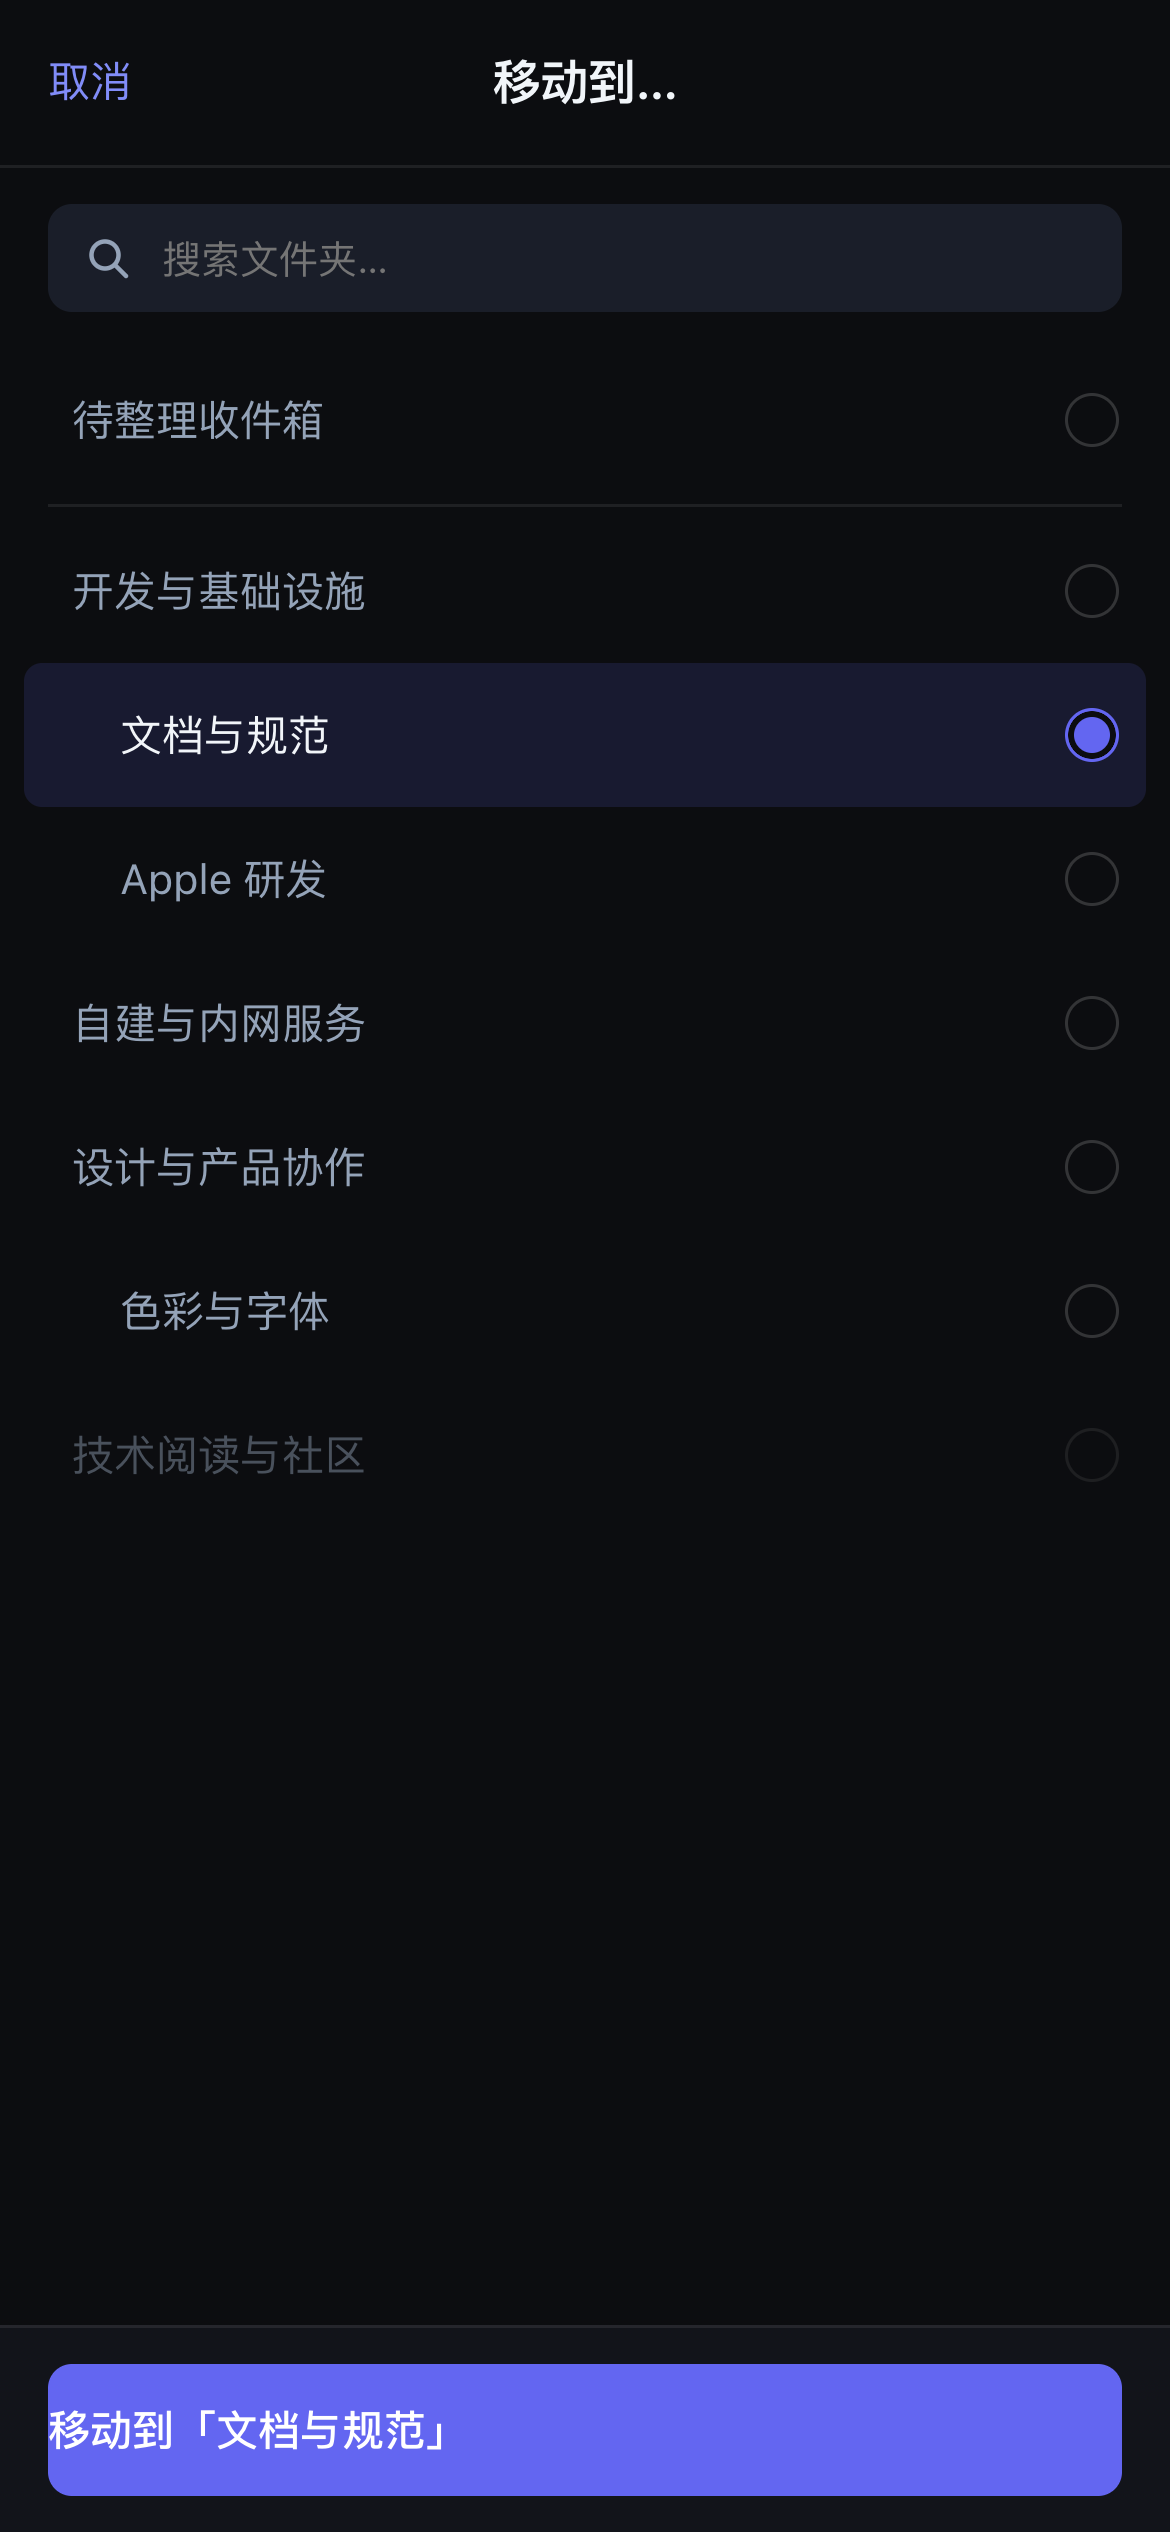
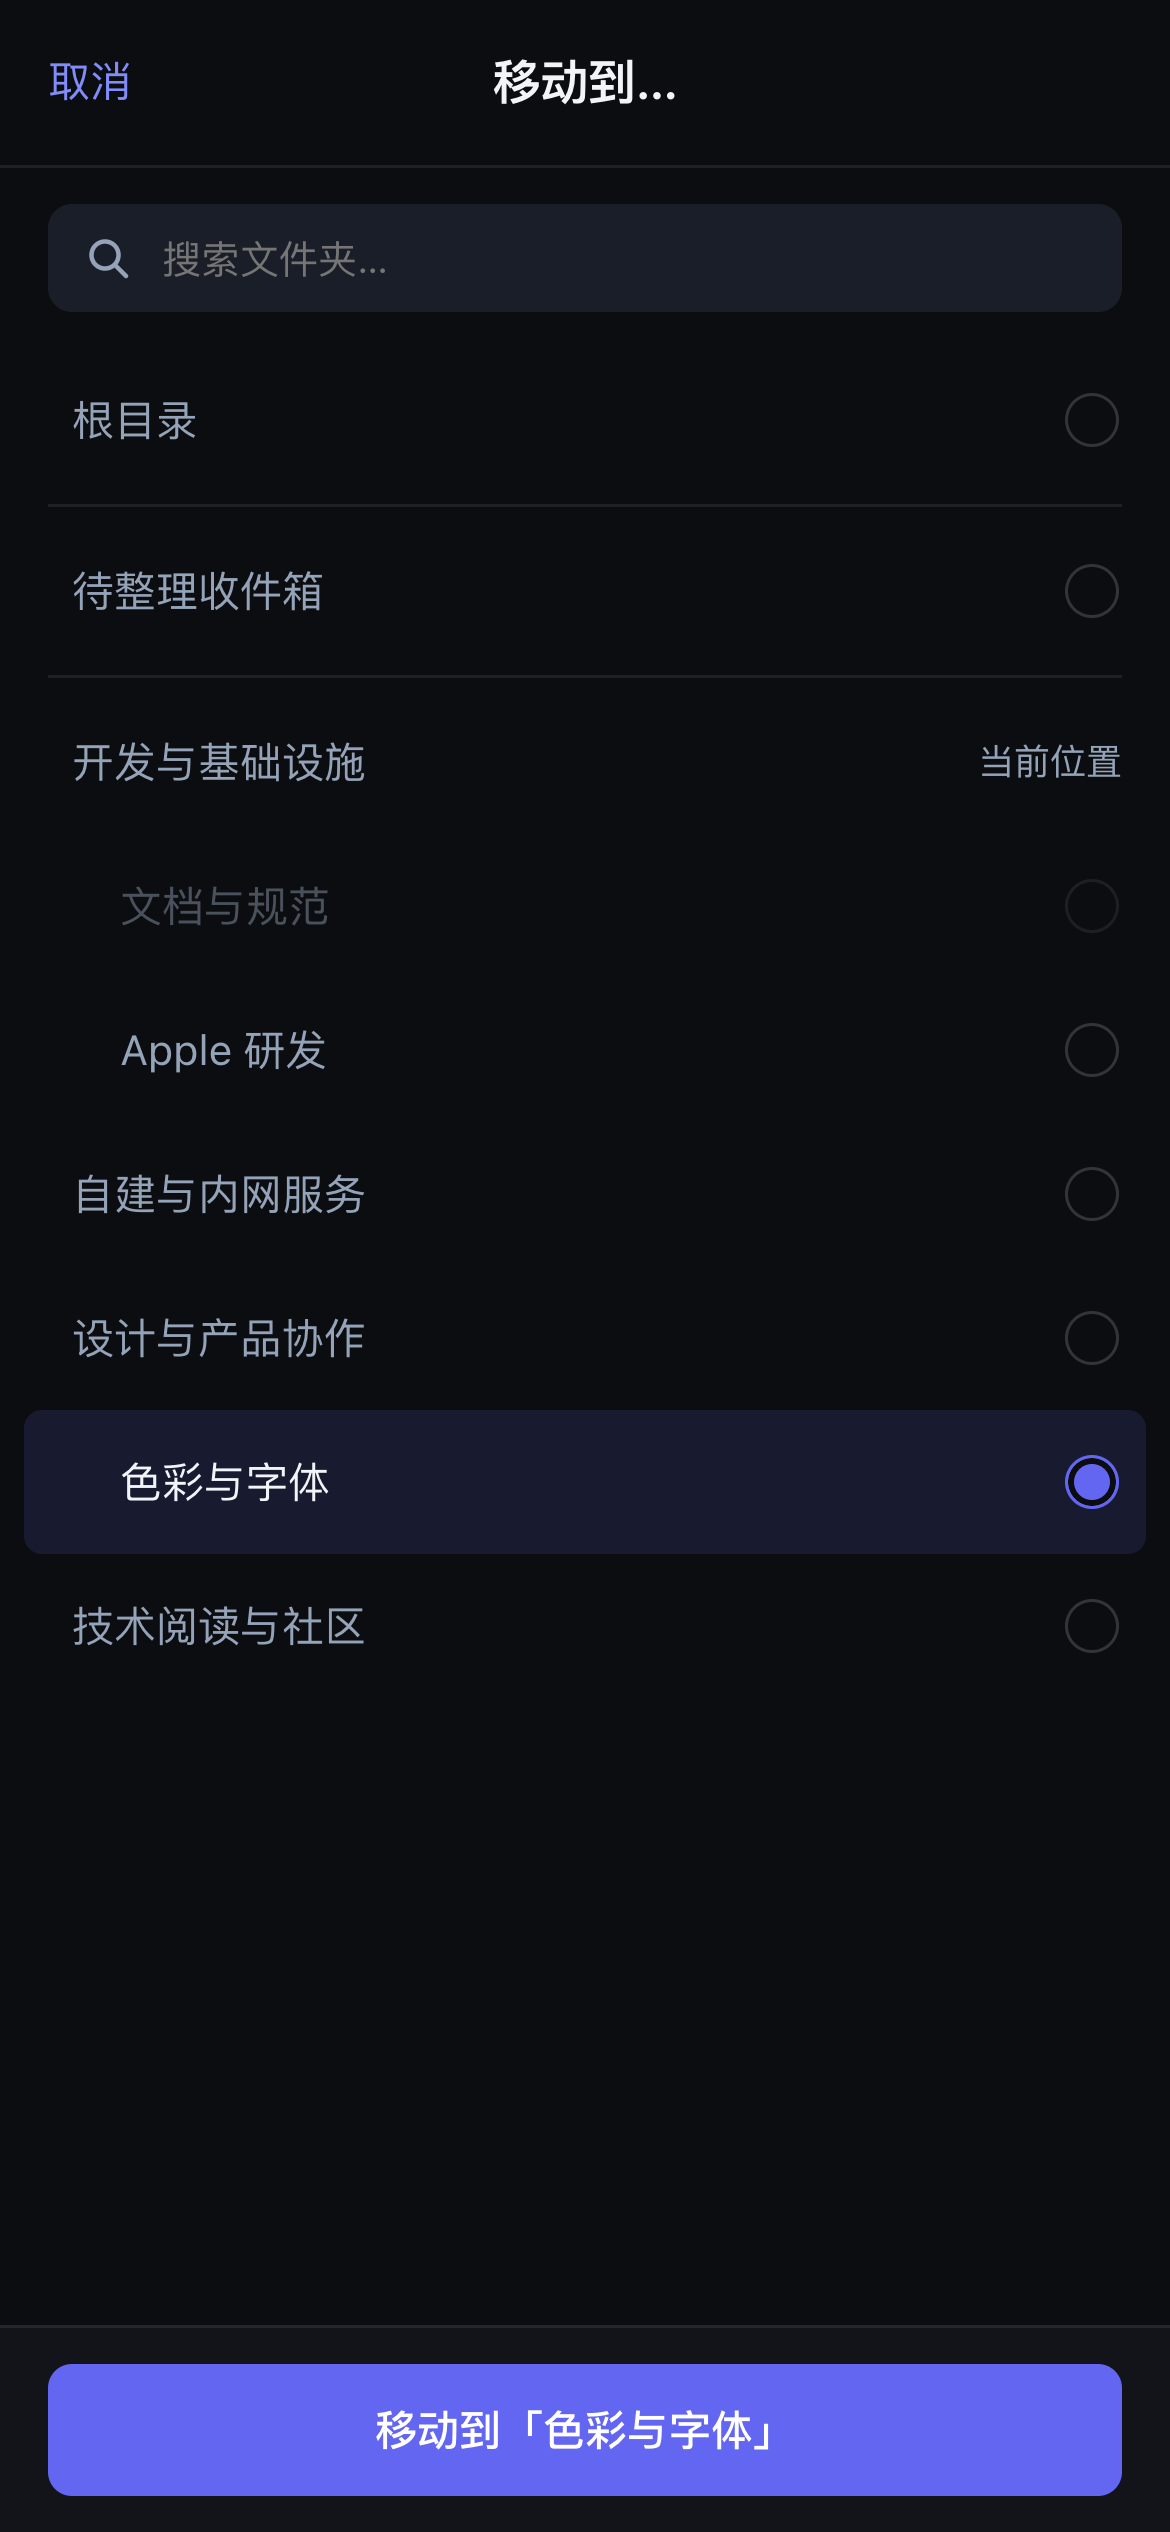
fix(web): 选择器补「根目录」入口，确认按钮文案居中
- 文件夹模式下嵌套目录只能往里搬、搬不出来（触屏没有拖拽兜底）：列表首行加「根目录」，提交走 dropFolder(id, null, 'inside') 追加到根级末尾；源已在根级时显示「当前位置」并禁用
- dropFolder 的 targetId 放宽为 string | null，快照节点数校验保留
- .nx-picker-confirm 显式 text-align: center（.nx-app 全局按钮重置带 text-align: left，通栏按钮文案会贴左）
- 重抓 4 张实机截图

实测 390×844：文档与规范 → 根目录，toast「已把「文档与规范」移到根目录」，groups.parent_id 变空、sort_order 5120；
文件夹模式行序 根目录 / 待整理收件箱 / 开发与基础设施(当前位置) / 文档与规范(禁选) …；按钮文案居中。

diff --git a/apps/web/src/pages/NavPage.tsx b/apps/web/src/pages/NavPage.tsx
@@ -1134,13 +1134,14 @@ export function NavPage({ authenticated, onLogin, onLoggedOut }: Props) {
 
   /** 把文件夹拖到目标的前 / 后 / 内部：本地重排整棵树后整份快照提交。 */
   const dropFolder = useCallback(
-    async (movedId: string, targetId: string, zone: 'before' | 'after' | 'inside') => {
+    async (movedId: string, targetId: string | null, zone: 'before' | 'after' | 'inside') => {
       if (movedId === targetId) return;
       const moved = groupById.get(movedId);
-      const target = groupById.get(targetId);
-      if (!moved || !target) return;
+      const target = targetId ? groupById.get(targetId) : null;
+      if (!moved) return;
+      if (targetId && !target) return;
       const forbidden = [movedId, ...descendantGroupIds(movedId)];
-      const parentId = zone === 'inside' ? targetId : target.parentId ?? null;
+      const parentId = targetId === null ? null : zone === 'inside' ? targetId : target?.parentId ?? null;
       if (parentId && forbidden.includes(parentId)) {
         pushToast('不能把文件夹移动到它自己的子文件夹里');
         return;
@@ -1155,7 +1156,7 @@ export function NavPage({ authenticated, onLogin, onLoggedOut }: Props) {
         buckets.set(parent, list);
       }
       const siblings = buckets.get(parentId) ?? [];
-      if (zone === 'inside') {
+      if (zone === 'inside' || targetId === null) {
         siblings.push(movedId);
       } else {
         const index = siblings.indexOf(targetId);
@@ -1180,9 +1181,11 @@ export function NavPage({ authenticated, onLogin, onLoggedOut }: Props) {
         await api.reorderGroups(snapshot);
         if (parentId) setNodeOpen(parentId, true);
         pushToast(
-          zone === 'inside'
-            ? `已把「${moved.name}」移入「${target.name}」`
-            : `「${moved.name}」顺序已更新`,
+          !target
+            ? `已把「${moved.name}」移到根目录`
+            : zone === 'inside'
+              ? `已把「${moved.name}」移入「${target.name}」`
+              : `「${moved.name}」顺序已更新`,
         );
         await refreshAll();
       } catch (error) {
@@ -1210,12 +1213,19 @@ export function NavPage({ authenticated, onLogin, onLoggedOut }: Props) {
   }, [childrenByParent, pathOf, pickerQuery]);
 
   const pickTargetName =
-    pickerTarget === '__inbox__' ? '待整理收件箱' : pickerTarget ? groupById.get(pickerTarget)?.name ?? '' : '';
+    pickerTarget === '__inbox__'
+      ? '待整理收件箱'
+      : pickerTarget === '__root__'
+        ? '根目录'
+        : pickerTarget
+          ? groupById.get(pickerTarget)?.name ?? ''
+          : '';
 
   const confirmPick = useCallback(async () => {
     if (!picker || !pickerTarget) return;
     const target = pickerTarget;
-    const name = target === '__inbox__' ? '待整理收件箱' : groupById.get(target)?.name ?? '';
+    const name =
+      target === '__inbox__' ? '待整理收件箱' : target === '__root__' ? '根目录' : groupById.get(target)?.name ?? '';
     const job = picker;
     setPicker(null);
     setPickerTarget(null);
@@ -1226,7 +1236,7 @@ export function NavPage({ authenticated, onLogin, onLoggedOut }: Props) {
         pushToast('收件箱不能作为文件夹的上级');
         return;
       }
-      await dropFolder(job.groupId, target, 'inside');
+      await dropFolder(job.groupId, target === '__root__' ? null : target, 'inside');
       return;
     }
     await moveItem(job.itemId, target, name);
@@ -3430,6 +3440,26 @@ export function NavPage({ authenticated, onLogin, onLoggedOut }: Props) {
               />
             </div>
             <div className="nx-picker-list">
+              {picker.mode === 'folder' && (
+                <button
+                  type="button"
+                  className="nx-picker-row"
+                  data-selected={pickerTarget === '__root__' || undefined}
+                  data-current={picker.from === null || undefined}
+                  disabled={picker.from === null || undefined}
+                  onClick={() => setPickerTarget('__root__')}
+                >
+                  <span className="nx-picker-name">根目录</span>
+                  <span className="nx-picker-tail">
+                    {picker.from === null ? (
+                      <span className="nx-picker-current">当前位置</span>
+                    ) : (
+                      <span className="nx-picker-ring" data-on={pickerTarget === '__root__' || undefined} />
+                    )}
+                  </span>
+                </button>
+              )}
+              {picker.mode === 'folder' && <div className="nx-picker-sep" />}
               <button
                 type="button"
                 className="nx-picker-row"

diff --git a/apps/web/src/nav-workspace.css b/apps/web/src/nav-workspace.css
@@ -3451,6 +3451,7 @@ button.nx-tree-arrow:hover {
 
 .nx-picker-confirm {
   width: 100%;
+  text-align: center;
   height: 44px;
   border: 0;
   border-radius: var(--nx-radius);

diff --git a/docs/design/nav-r8/BRIEF.md b/docs/design/nav-r8/BRIEF.md
@@ -142,6 +142,7 @@
 
 - **删掉了 `.nx-ctx-sub` 二级悬停子菜单**：它靠 `:hover` 才 `display:flex`，`ctxMoveOpen` 是从没被 set 过的死状态，触屏永远打不开；位置写死 `right: calc(100% + 4px)`，390 宽下实际 x ≈ −69 直接飞出屏幕。现在「移动到文件夹…」一律打开选择器，桌面居中、手机全屏。
 - 选择器一次解决「选目标」：树全展开 + 按完整路径搜索、当前所在位置显示「当前位置」、文件夹模式禁选自己与自己的子树、底部单一确认按钮（未选时禁用）。
+- 文件夹模式的列表第一行是「根目录」——触屏没有别的路径能把子文件夹搬回顶层，缺这一行等于只能往里搬、搬不出来；源文件夹已在根级时该行显示「当前位置」并禁用。
 - `sheet` / `picker` 都受 Esc 与遮罩点击关闭；面板行高 56、选择器行高 48、分段按钮 44，全部 ≥44 触控下限。
 - 触屏浏览态的 `⋯` 只在 `(hover: none)` 才有意义，所以隐藏规则改成 `@media (hover: hover) and (pointer: fine)` 生效——原来无条件 `display:none`，触屏上等于没有整理入口。
 - 顶栏「`⋯`」与抽屉「`⋯`」用同一个 `mobileNav` / `sheet` 状态机，避免出现两套关闭逻辑。
